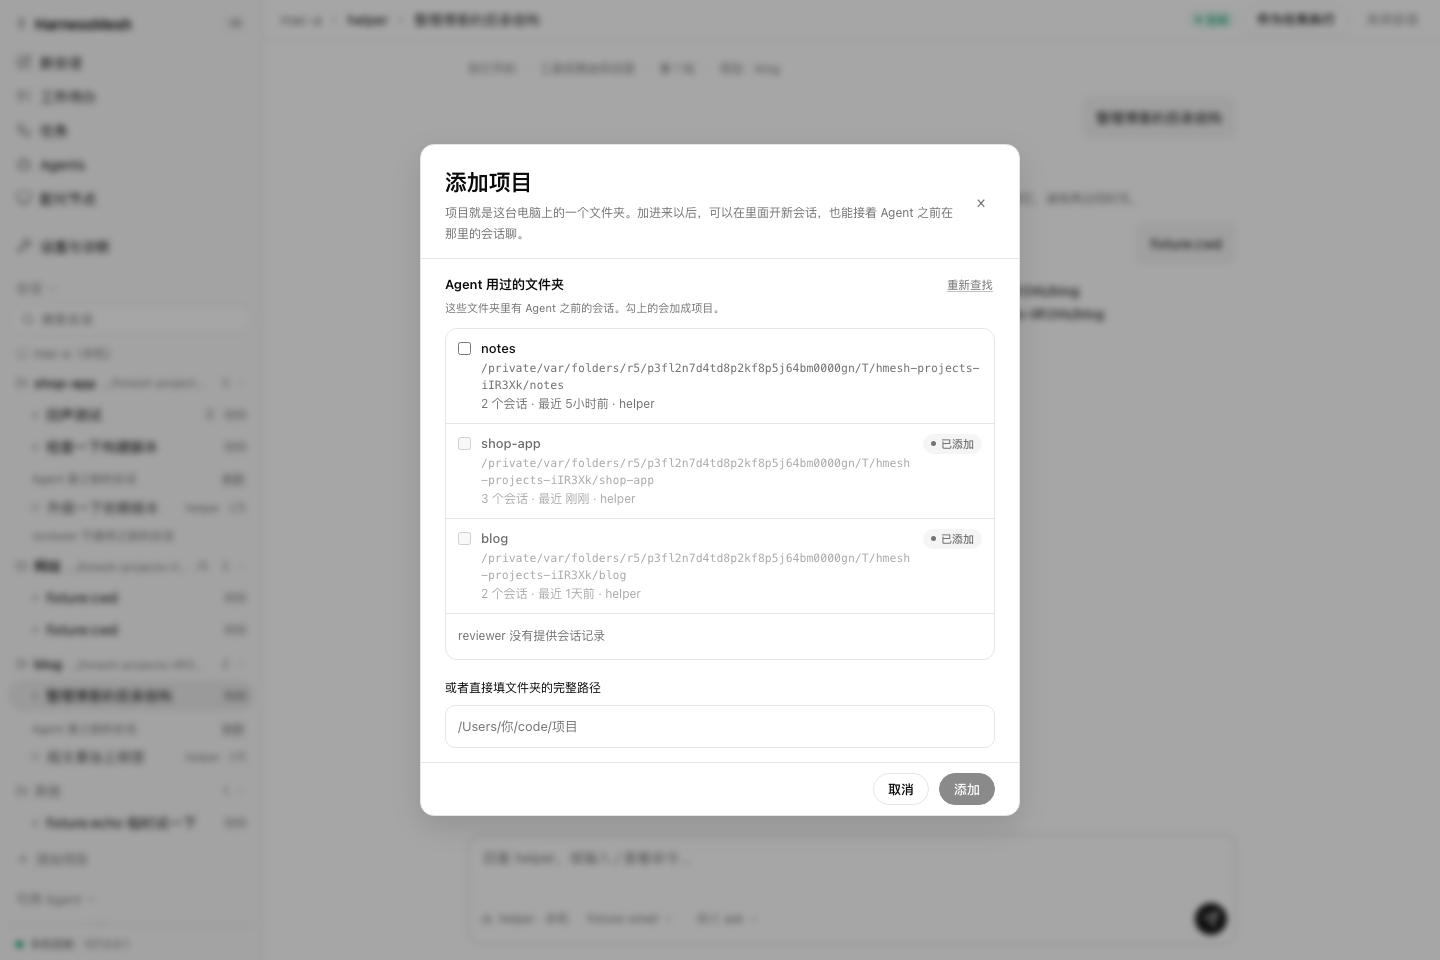
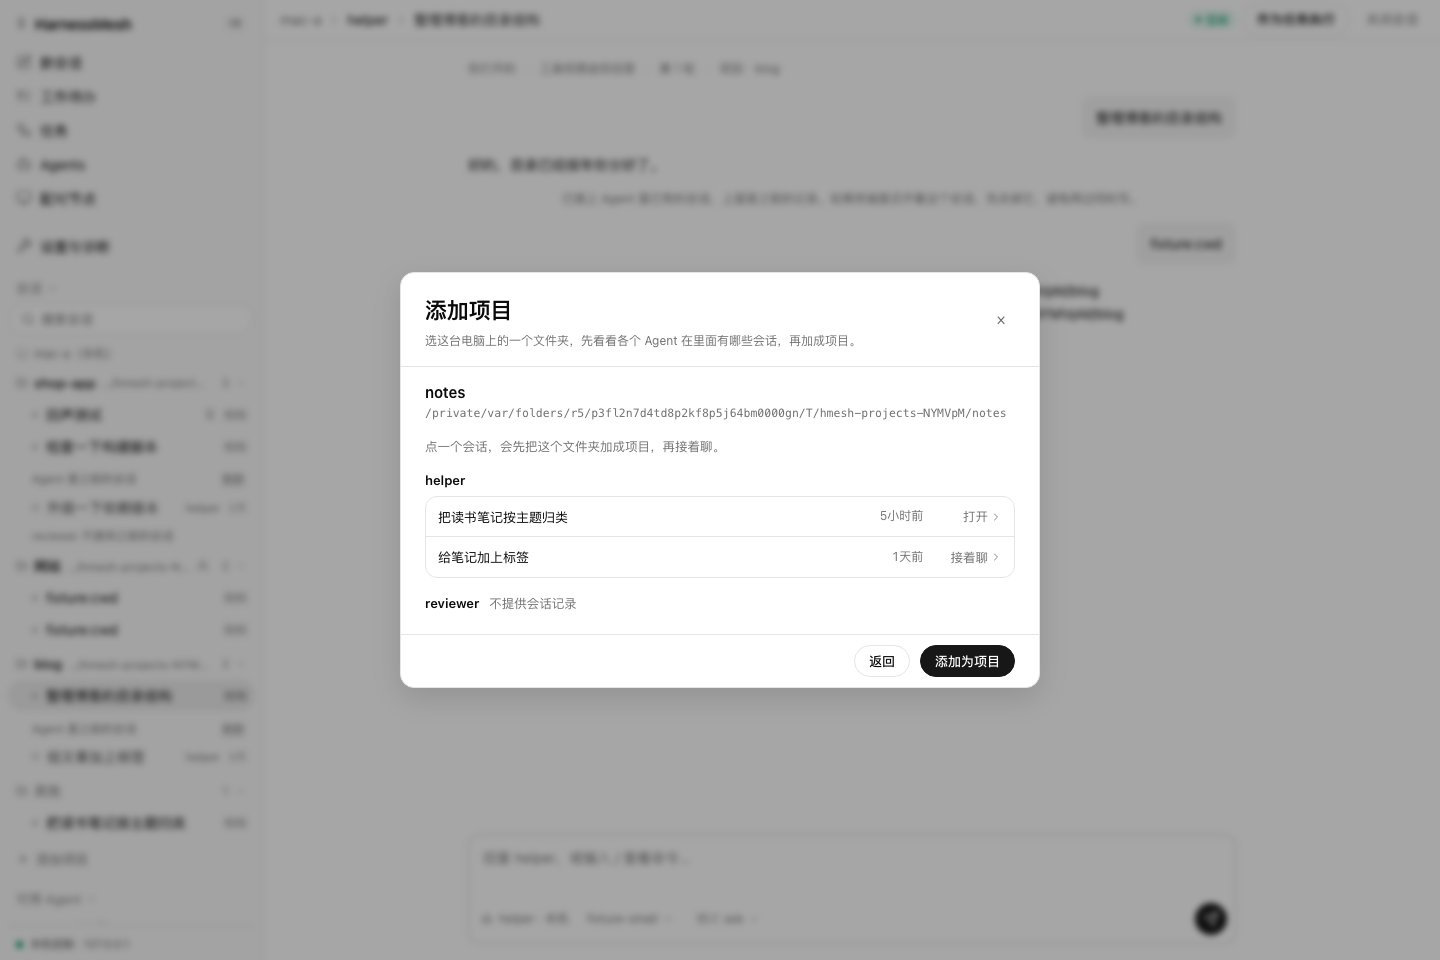
fix(panel): close an open folder dialog when the panel stops; plain errors
- Stopping the panel closed nothing while a folder dialog was open: the
  request waited for it, up to ten minutes. The dialog is now ended at
  once and the panel (with the daemon it started) stops.
- Folder dialog failures and slow agent lists read as English or RPC
  text in the panel; they now say what happened in plain words. A dialog
  ended without an answer reports its exit code or that it was stopped.
- The panel test now checks that the dialog process ends when the
  browser gives up and when the panel stops, and waits for the panel to
  exit, so it no longer leaves a daemon running.
- The 添加项目 screenshot in the docs shows the new dialog; a status log
  entry records the change.

Changed region(s): [[0.25, 0.125, 0.7812, 0.875]]

diff --git a/web/panel/projects.js b/web/panel/projects.js
@@ -29,6 +29,8 @@ const projectProblems=[
   [/no longer shared/,'这个项目已经不再共享'],
   [/cannot continue its earlier sessions/,'这个 Agent 不能接着它之前的会话'],
   [/unknown session/,'找不到这个会话'],
+  [/did not list its sessions within (\d+) s/,m=>`${m[1]} 秒内没有列出会话，稍后再试`],
+  [/deadline exceeded|timed out/i,'等了太久没有回应，稍后再试'],
 ];
 // The folder dialog's refusals come with a code.
 const pickerProblems={
@@ -38,7 +40,7 @@ const pickerProblems={
 };
 function projectProblem(e){
   if(pickerProblems[e?.code])return pickerProblems[e.code];
-  if(e?.code==='FOLDER_PICKER_FAILED')return `文件夹选择框没有打开：${e.message||'原因不明'}`;
+  if(e?.code==='FOLDER_PICKER_FAILED')return '文件夹选择框没有打开，可以直接填文件夹的完整路径';
   const text=e?.message||'';
   for(const [pattern,say]of projectProblems){const m=pattern.exec(text);if(m)return typeof say==='function'?say(m):say;}
   return text||e?.code||'原因不明';

diff --git a/crates/hmesh-cli/tests/panel.rs b/crates/hmesh-cli/tests/panel.rs
@@ -873,7 +873,7 @@ async fn the_folder_dialog_is_this_computers_own_one_at_a_time() {
     let picker = root.path().join("pick.sh");
     std::fs::write(
         &picker,
-        "#!/bin/sh\ncase \"$(cat \"$PICK_MODE\")\" in\n  echo) printf '%s\\n' \"$1\";;\n  cancel) ;;\n  slow) sleep 3; printf '%s/\\n' \"$PICK_DIR\";;\n  *) printf '%s/\\n' \"$PICK_DIR\";;\nesac\n",
+        "#!/bin/sh\necho $$ > \"$PICK_PID\"\ncase \"$(cat \"$PICK_MODE\")\" in\n  echo) printf '%s\\n' \"$1\";;\n  cancel) ;;\n  slow) sleep 3; printf '%s/\\n' \"$PICK_DIR\";;\n  hang) sleep 60;;\n  *) printf '%s/\\n' \"$PICK_DIR\";;\nesac\n",
     )
     .unwrap();
     std::fs::set_permissions(&picker, std::fs::Permissions::from_mode(0o755)).unwrap();
@@ -885,6 +885,7 @@ async fn the_folder_dialog_is_this_computers_own_one_at_a_time() {
         .env("HMESH_FOLDER_PICKER", &picker)
         .env("PICK_MODE", &mode)
         .env("PICK_DIR", &folder)
+        .env("PICK_PID", root.path().join("pick-pid"))
         .stdout(Stdio::piped())
         .stderr(Stdio::null())
         .kill_on_drop(true)
@@ -993,6 +994,19 @@ async fn the_folder_dialog_is_this_computers_own_one_at_a_time() {
         .await;
     assert!(gave_up.is_err());
     tokio::time::sleep(Duration::from_millis(300)).await;
+    let alive = |pid: &str| {
+        std::process::Command::new("kill")
+            .args(["-0", pid.trim()])
+            .stderr(Stdio::null())
+            .status()
+            .unwrap()
+            .success()
+    };
+    let gone = std::fs::read_to_string(root.path().join("pick-pid")).unwrap();
+    assert!(
+        !alive(&gone),
+        "the dialog the browser gave up on still runs"
+    );
     std::fs::write(&mode, "pick").unwrap();
     let again: Value = pick(json!({})).send().await.unwrap().json().await.unwrap();
     assert_eq!(again["data"]["path"], folder.to_str().unwrap(), "{again}");
@@ -1026,5 +1040,30 @@ async fn the_folder_dialog_is_this_computers_own_one_at_a_time() {
             .unwrap();
         assert_eq!(refused.status(), 502, "{bad}");
     }
+    // Stopping the panel closes a dialog that is still open, and the panel
+    // (with the daemon it started) stops promptly.
+    std::fs::write(&mode, "hang").unwrap();
+    std::fs::remove_file(root.path().join("pick-pid")).unwrap();
+    let open = tokio::spawn(pick(json!({})).send());
+    let pid_file = root.path().join("pick-pid");
+    tokio::time::timeout(Duration::from_secs(10), async {
+        while !pid_file.exists() {
+            tokio::time::sleep(Duration::from_millis(50)).await;
+        }
+    })
+    .await
+    .unwrap();
+    tokio::time::sleep(Duration::from_millis(200)).await;
+    let hung = std::fs::read_to_string(&pid_file).unwrap();
+    assert!(alive(&hung));
     stop_panel(&http, &ready).await;
+    assert!(
+        tokio::time::timeout(Duration::from_secs(15), child.wait())
+            .await
+            .unwrap()
+            .unwrap()
+            .success()
+    );
+    assert!(!alive(&hung), "the dialog outlived the panel");
+    let _ = open.await;
 }

diff --git a/crates/hmesh-cli/src/panel.rs b/crates/hmesh-cli/src/panel.rs
@@ -1070,7 +1070,14 @@ async fn pick_folder(State(s): State<Panel>, Json(form): Json<PickFolderForm>) -
         }
     }
     let _open = Open(s.picking.clone());
-    let result = crate::folder_picker::pick(form.start.as_deref()).await;
+    // Stopping the panel closes an open dialog instead of waiting for it.
+    let mut stopping = s.stop.subscribe();
+    let result = tokio::select! {
+        result = crate::folder_picker::pick(form.start.as_deref()) => result,
+        _ = stopping.wait_for(|stop| *stop) => Err(crate::folder_picker::PickError::Failed(
+            "the panel is stopping".into(),
+        )),
+    };
     use crate::folder_picker::PickError;
     match result {
         Ok(Some(path)) => Json(json!({"data":{"path":path}})).into_response(),

diff --git a/crates/hmesh-cli/src/folder_picker.rs b/crates/hmesh-cli/src/folder_picker.rs
@@ -180,7 +180,10 @@ pub fn chosen(
         let said = String::from_utf8_lossy(stderr);
         let said = said.trim();
         PickError::Failed(if said.is_empty() {
-            format!("the folder dialog exited with {code:?}")
+            match code {
+                Some(code) => format!("the folder dialog exited with code {code}"),
+                None => "the folder dialog was stopped".to_owned(),
+            }
         } else {
             said.chars().take(300).collect()
         })

diff --git a/docs/implementation-status.md b/docs/implementation-status.md
@@ -1,5 +1,7 @@
 # V0 P0 实施与验收状态
 
+2026-11-26 添加项目改成先选文件夹：面板服务弹出这台电脑自带的文件夹选择框（macOS osascript、Windows PowerShell、Linux zenity/kdialog，可用 `HMESH_FOLDER_PICKER` 替换；同一时间只开一个，10 分钟或浏览器不再等待、面板停止时结束），选好后用新的 owner 接口 `/local/history/folder` 列出本机每个 agent 在那里的会话，可直接加成项目或点会话接着聊。macOS 15.8.3 实机确认选择框出现在最前面；Windows、Linux 只验证了命令拼装和输出解析。单测、面板 API 测试、fixture 端到端、面板冒烟和 10 个反例检查通过，见 [本机面板说明](local-panel.md) 和 [安全说明](security.md)。
+
 2026-11-26 Pi 真实会话体验验收与修复：用本机 Pi 0.83.0 + pi-acp 0.0.35 + 本机网关的 `deepseek-v4.1-flash-1017` 跑完首消息、读/写工具、审批、模型切换、取消、重启续聊、旧会话列表、错误呈现和用量九项。发现并修掉 HarnessMesh 侧七处：pi 启动横幅混入对话和 `final_text`（改按 `_meta.piAcp.startupInfo` 与横幅结构过滤）、重试文案被当成回答（改记 status 提示）、空回答回合被记成成功（改记 error 与 `last_error`）、取消后工具停在等待（取消回合给未完成工具补终态）、旧会话列表超时（面板/守护进程期限对齐 35/25 秒，失败回退上次列表）、工具标题逐字增长和逐 token 正文产生大量事件（工具按状态/结果/长度变化保留，正文按 512 字节或 150 毫秒合并）、新会话设置下拉可能一直禁用（重建键加入写权限）。面板同时写明 Pi 的工具调用不经过 HarnessMesh 审批、会话内不能调用其他 Agent。上游边界保留并记录：pi-acp 不把 ACP 的 MCP 服务转给 Pi；取消后重新载入时模型可能重跑未完成的工具调用；供应商 429 仍由 agent 自己重试。fmt、严格 Clippy 与 workspace 测试通过，面板无 JS 错误；证据见 [Pi 会话记录](evidence/2026-11-26-pi-session-ux.json)，说明见 [本机面板](local-panel.md)。
 
 2026-11-25 项目和 Agent 已有的会话：schema 10 增加项目表和会话标记。会话可以在本机任意已添加的项目里运行；面板按「电脑 → 项目 → 会话」分组，展开项目时用 ACP `session/list` 现读 agent 自己已有的会话，点开用 `session/load` 回放并接着聊（只保留第一次回放）；项目可共享给配对电脑（只给 ID 和名字，每次启动 agent 前检查仍在共享）；会话可改名、置顶、隐藏和搜索。fixture 端到端测试、面板冒烟和真 claude-agent-acp（伪造记录、不登录、不调模型）检查通过，见 [本机面板说明](local-panel.md) 和 [安全说明](security.md)。
